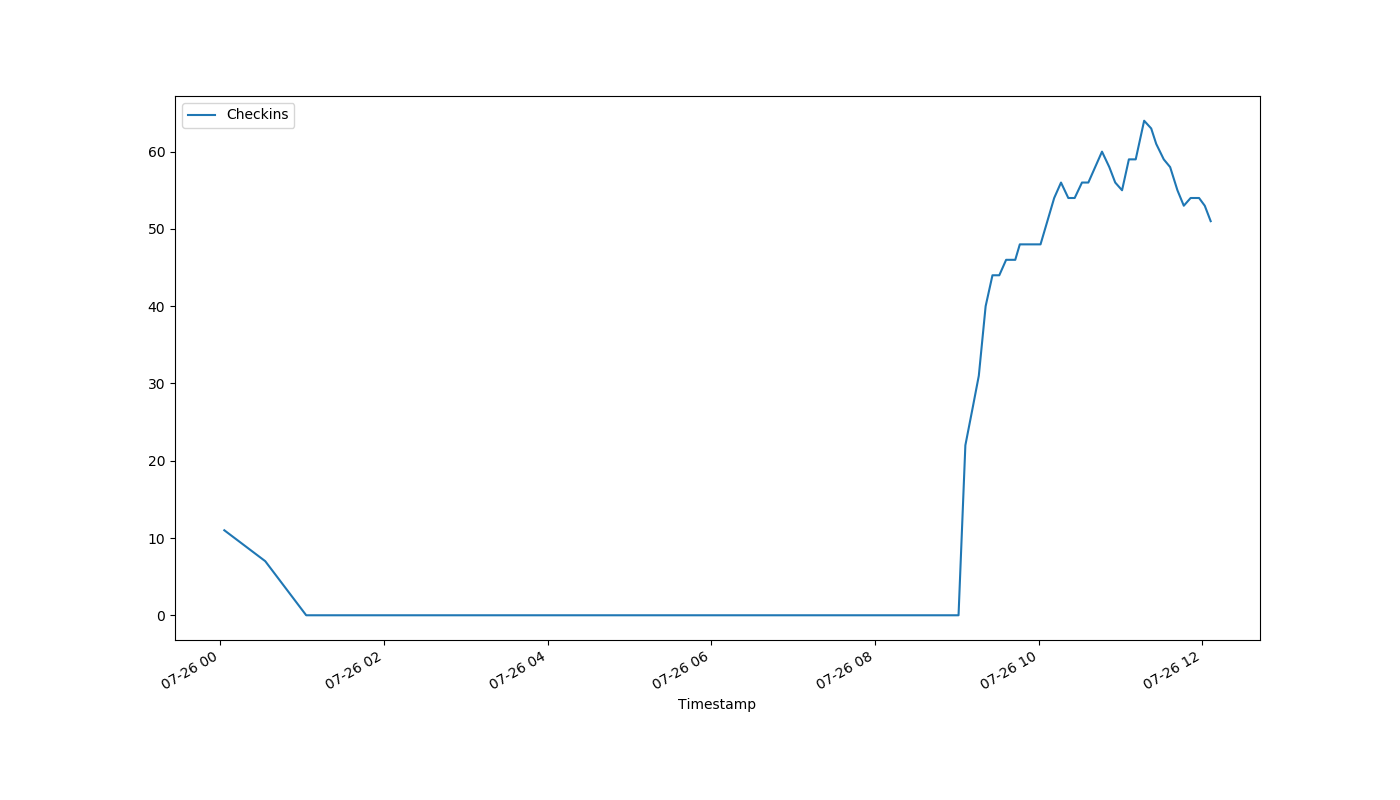
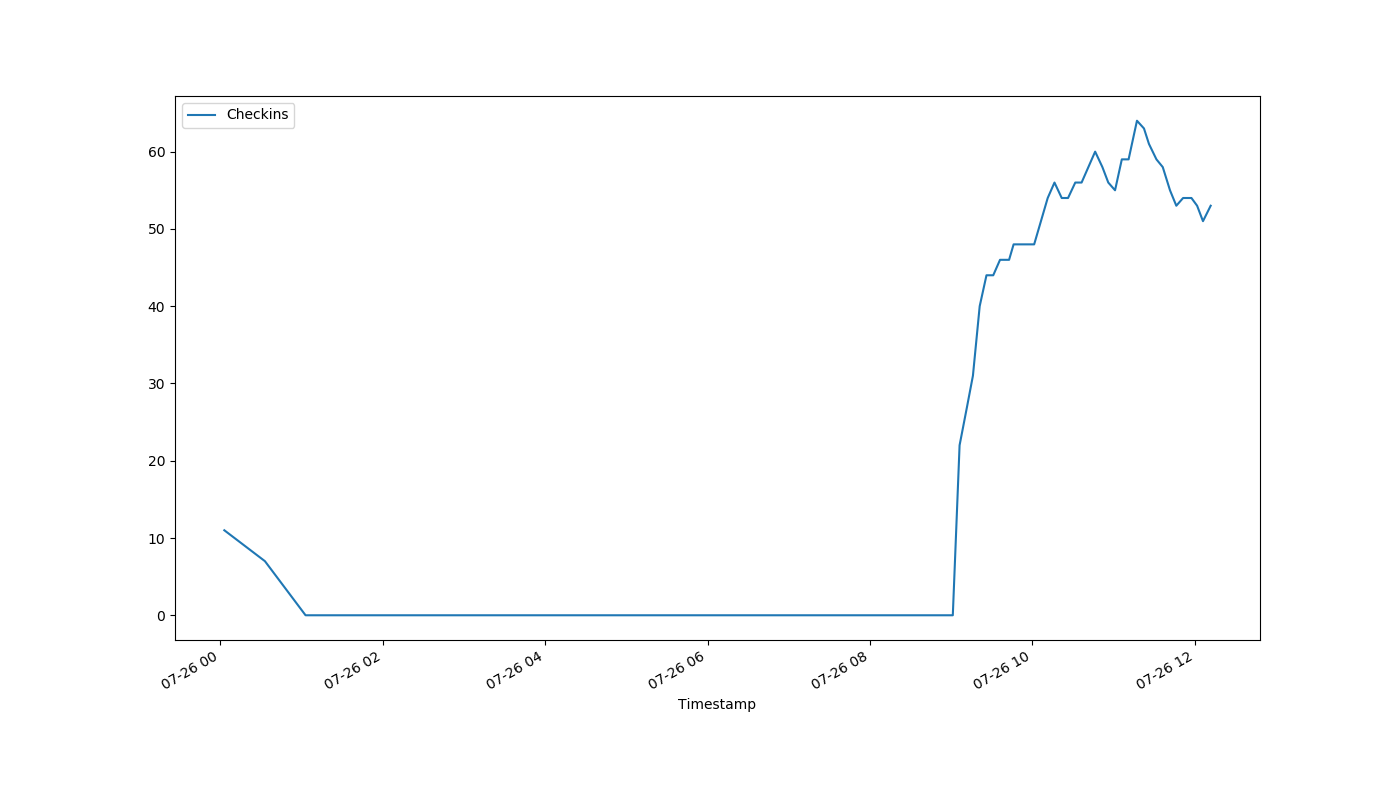
auto-Jul-26-12:12:57

diff --git a/index.html b/index.html
@@ -1,1 +1,1 @@
-<!DOCTYPE html><html><head><meta http-equiv="refresh" content="30"><link rel='stylesheet' href='holmcurrent.css'></head><body><p id='count'>-1</p><div id='graph-wrap'><img id='graph' src='holmgraph-Jul-26.png'></div><p id='updated'>Last updated 12:11:01 / 12:11:00</p></body></html>
+<!DOCTYPE html><html><head><meta http-equiv="refresh" content="30"><link rel='stylesheet' href='holmcurrent.css'></head><body><p id='count'>53</p><div id='graph-wrap'><img id='graph' src='holmgraph-Jul-26.png'></div><p id='updated'>Last updated 12:12:01 / 12:11:41</p></body></html>
